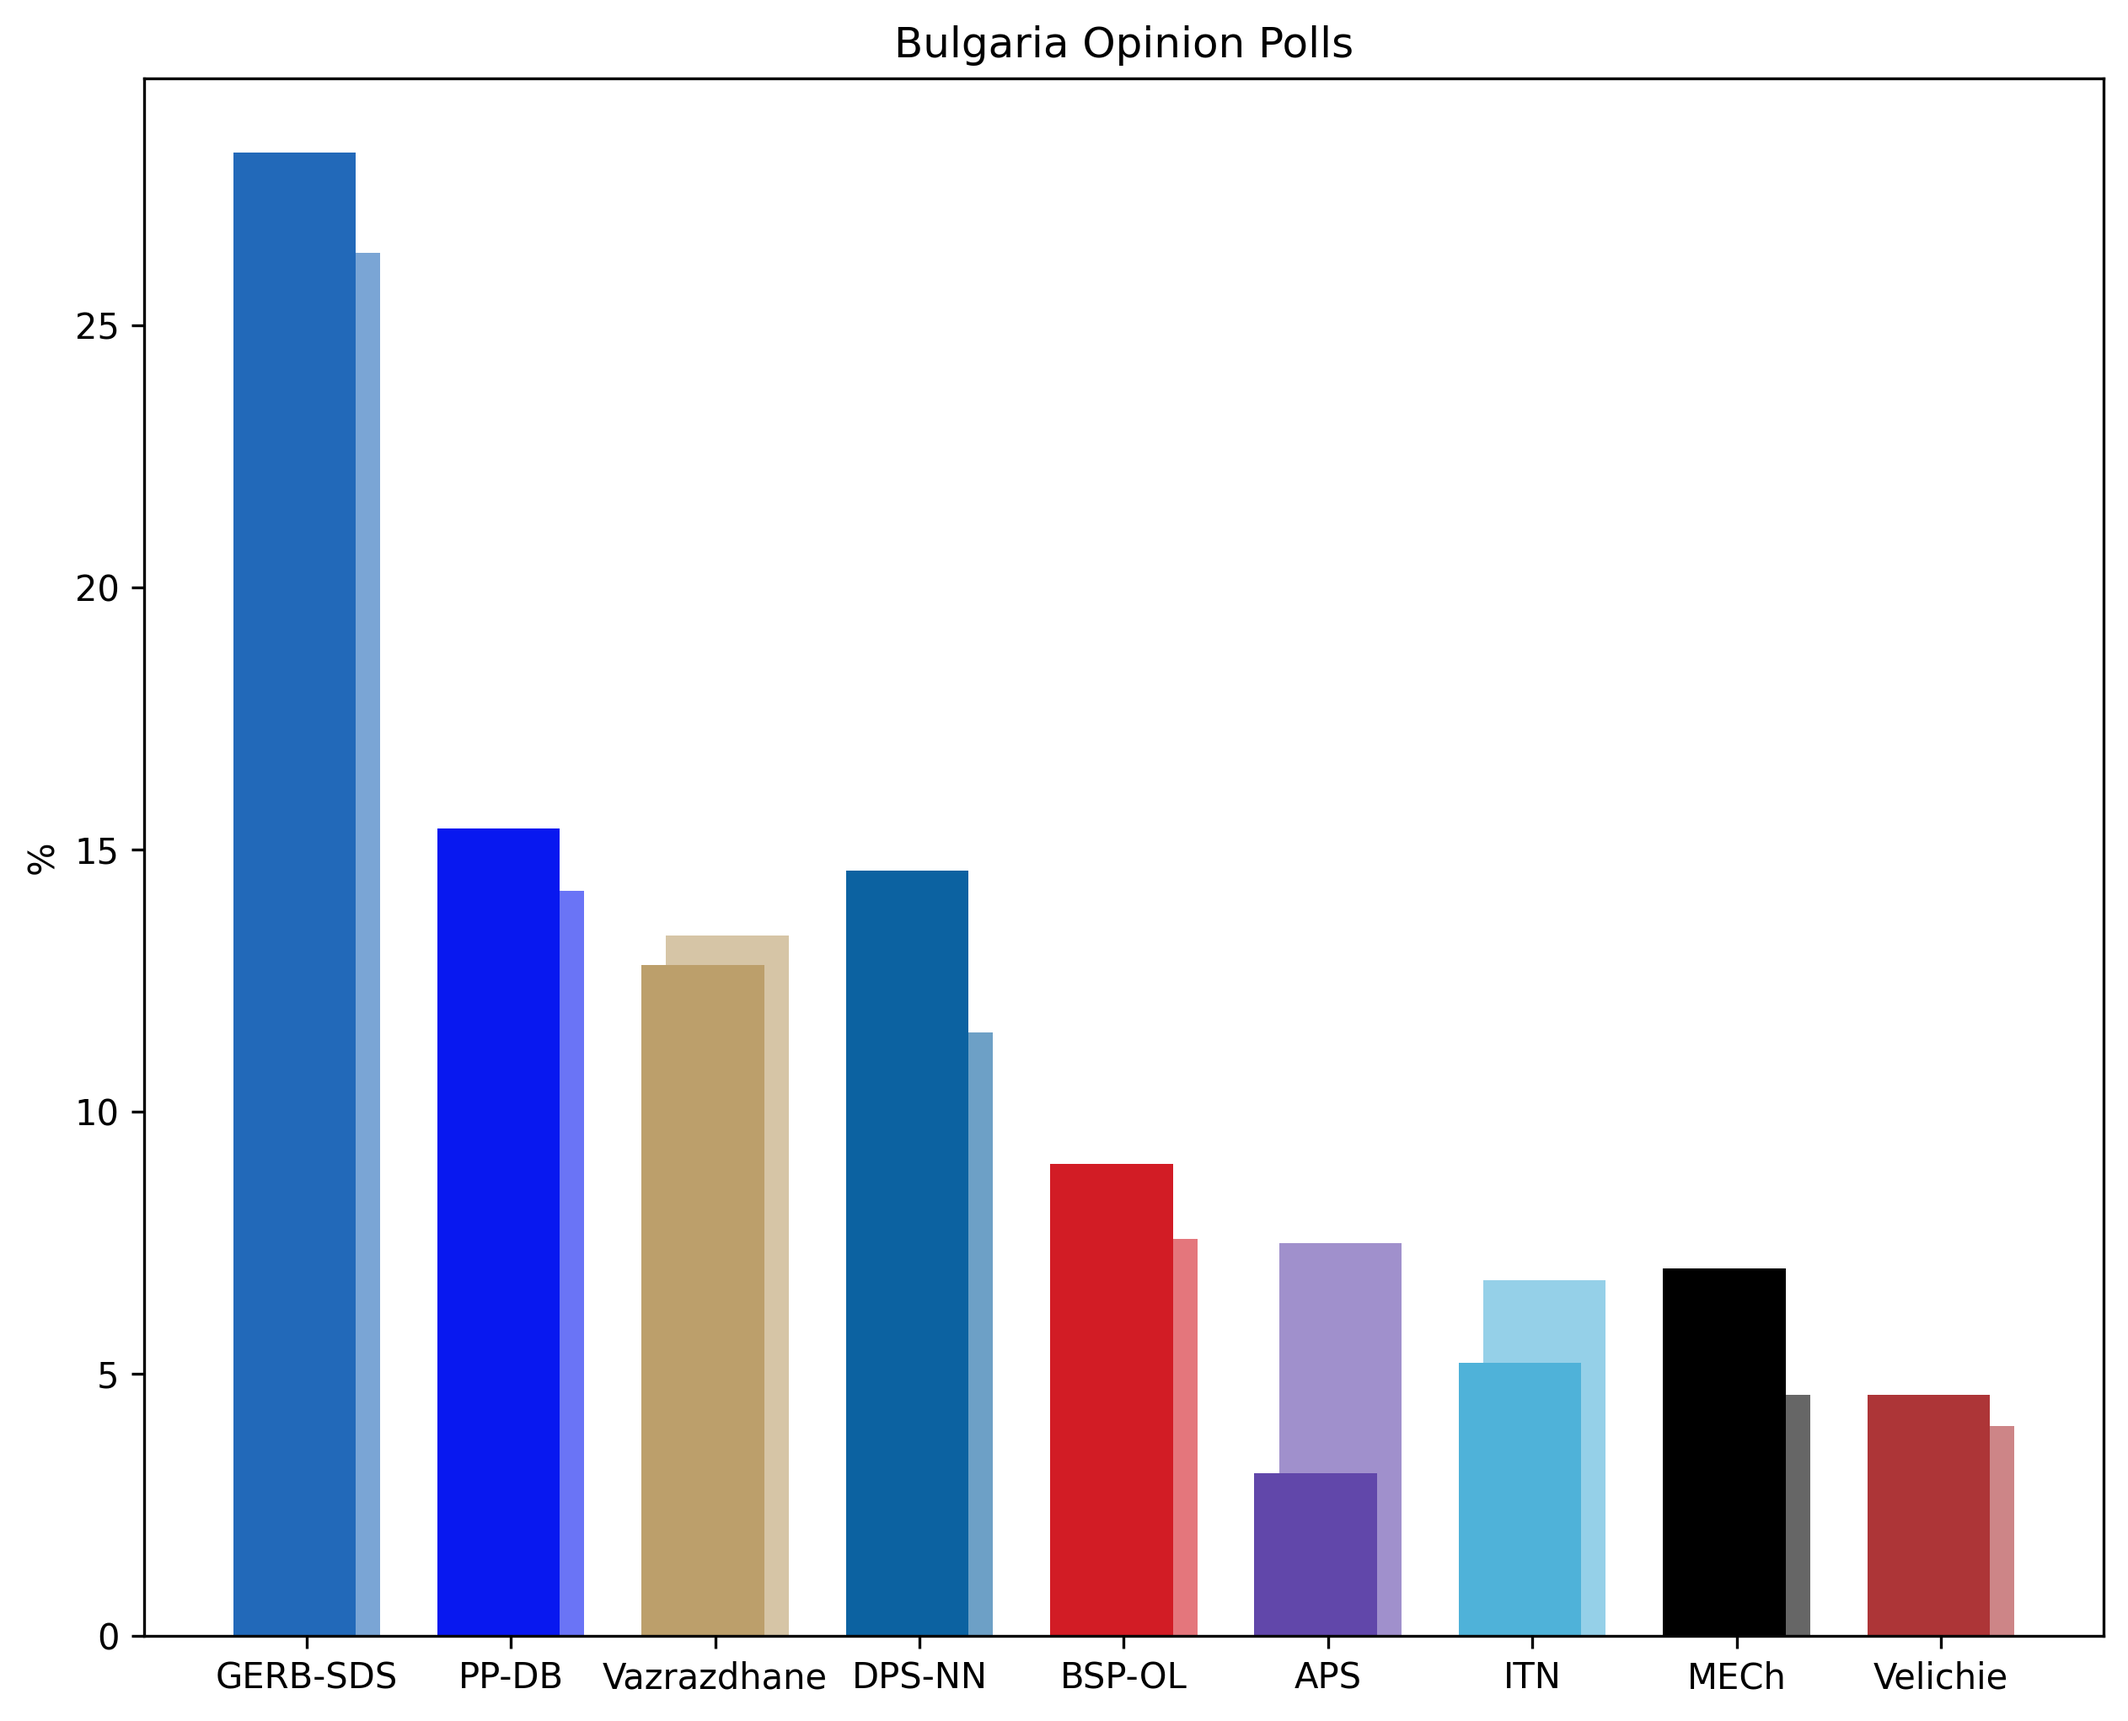
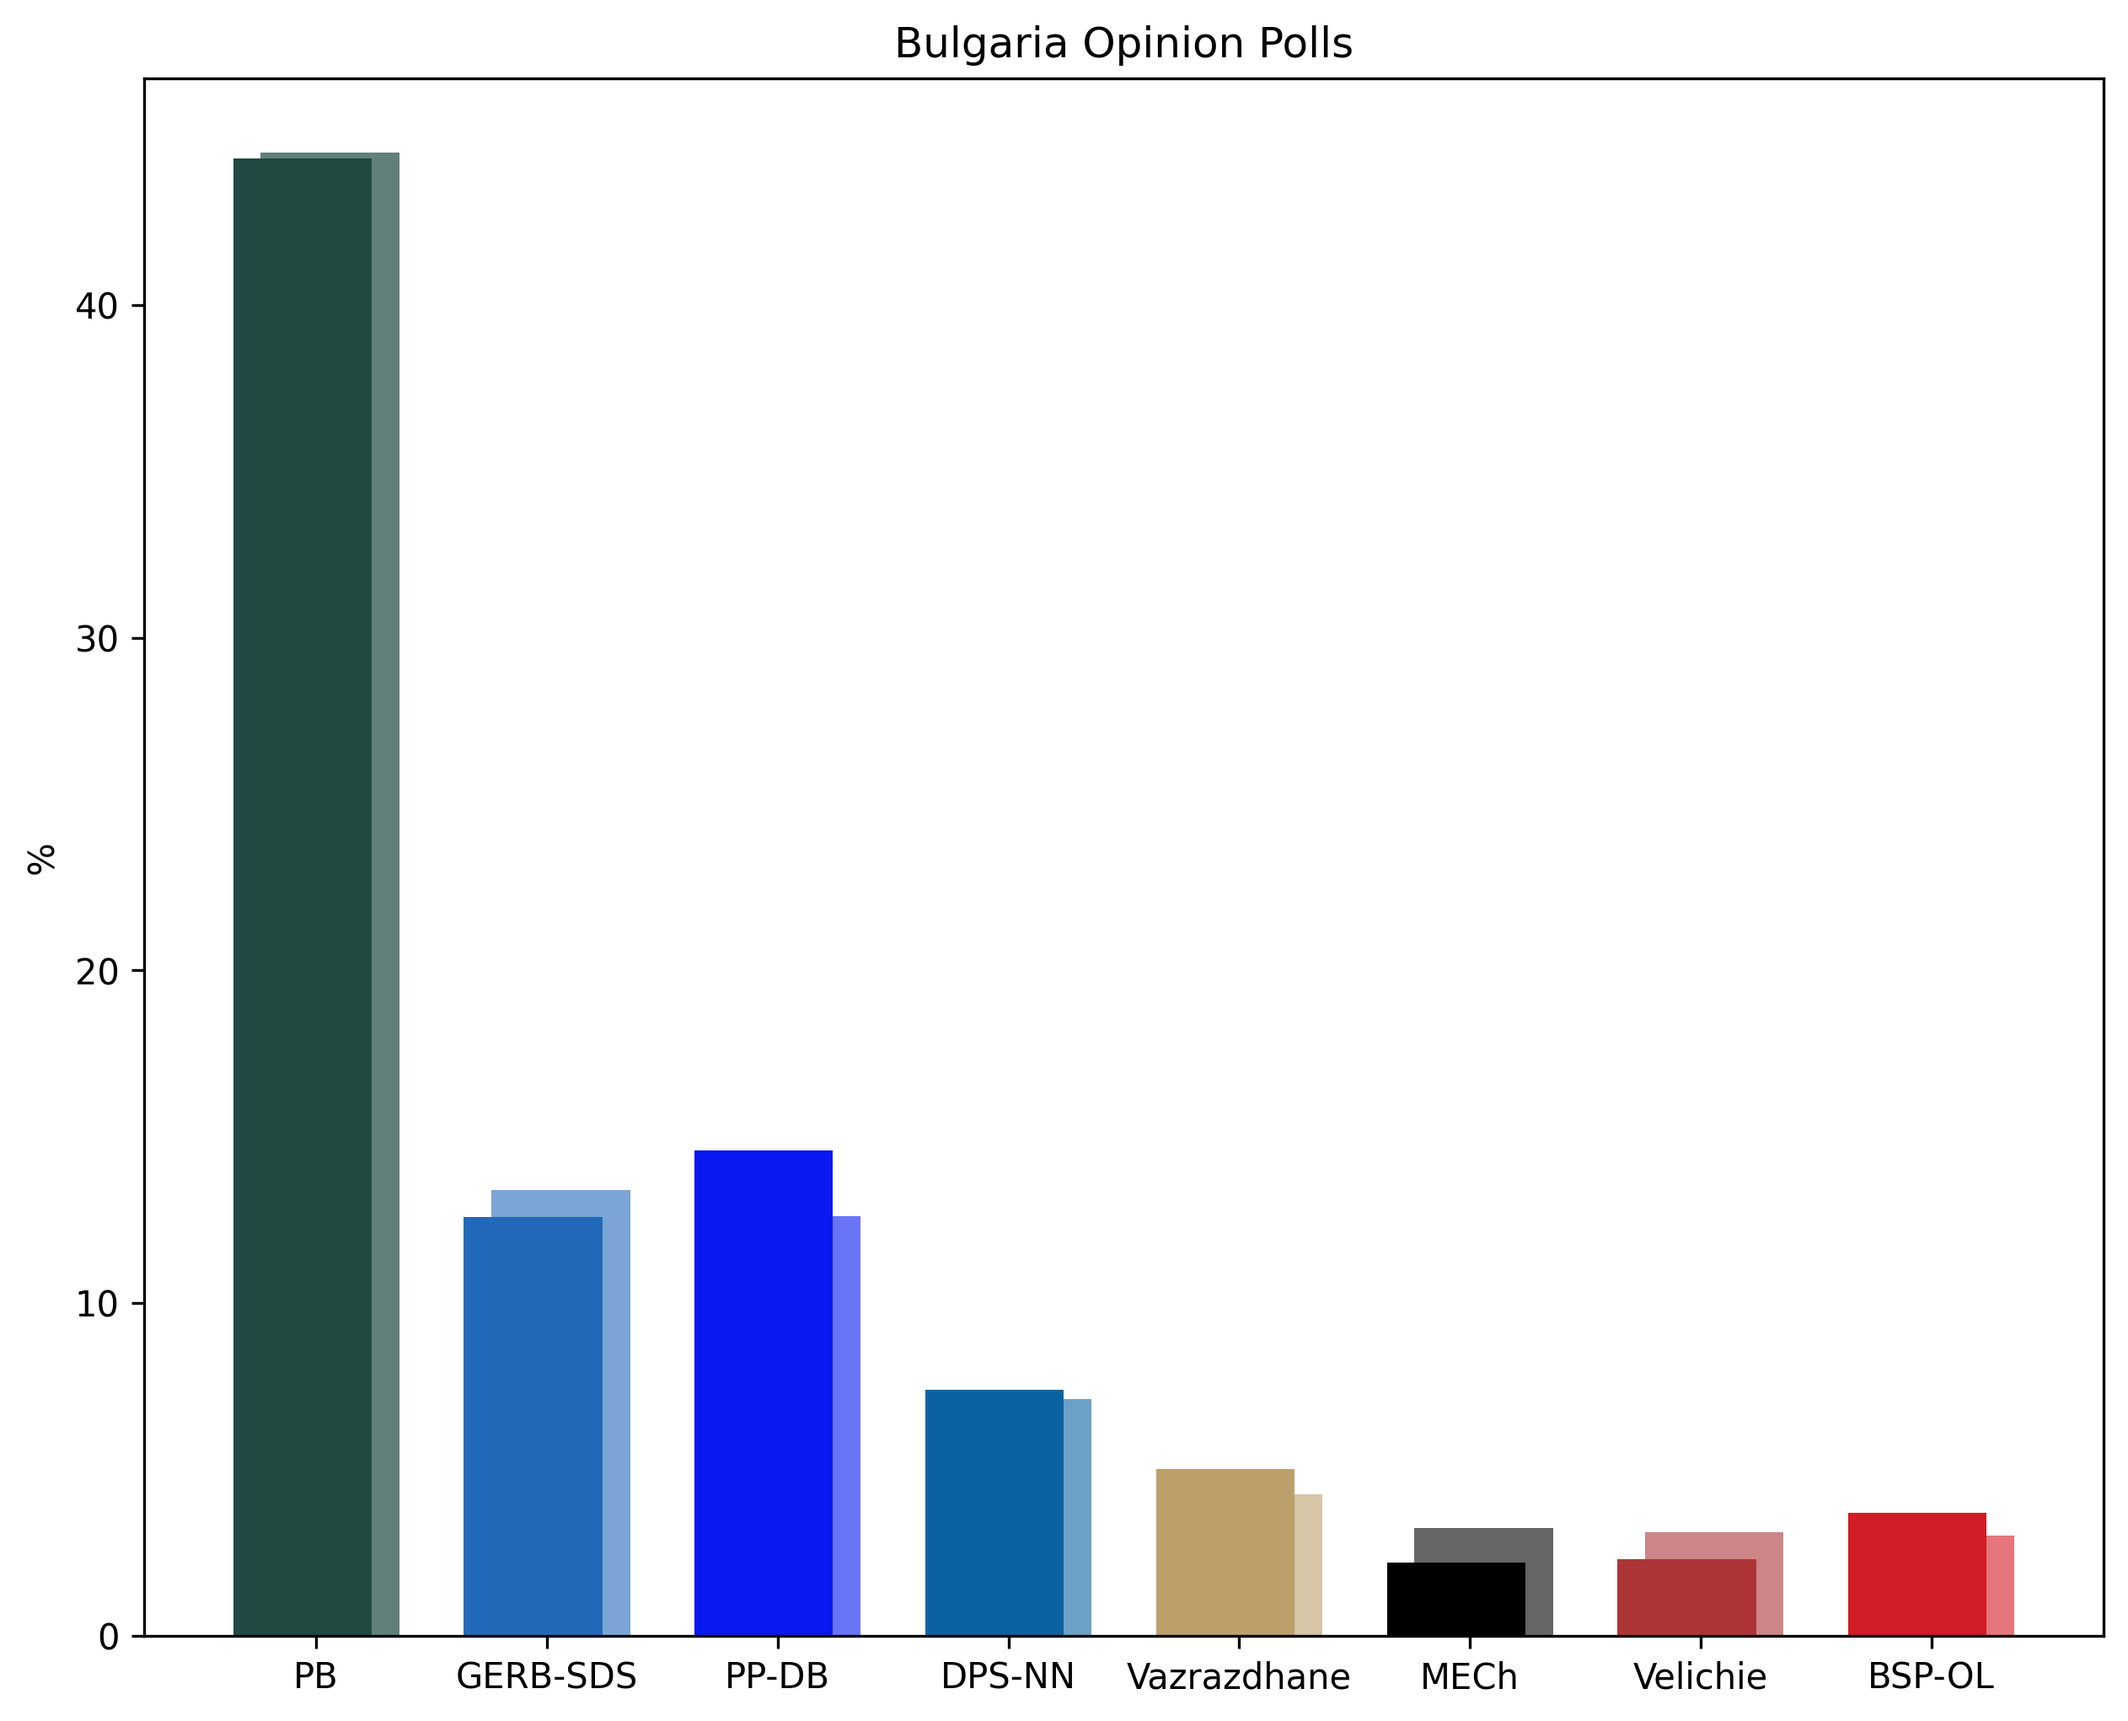
Updated Bulgaria

diff --git a/Europe/SouthEurope/Bulgaria.py b/Europe/SouthEurope/Bulgaria.py
@@ -1,19 +1,19 @@
 import matplotlib.pyplot as plt
 import numpy as np
 
-parties = ['GERB-SDS', 'PP-DB', 'Vazrazdhane', 'DPS-NN', 'BSP-OL', 'APS', 'ITN', 'MECh', 'Velichie']
-polling_2025 = [28.3, 15.4, 12.8, 14.6, 9.0, 3.1, 5.2, 7.0, 4.6]
-election_2024 = [26.39, 14.21, 13.36, 11.51, 7.57, 7.49, 6.78, 4.60, 4.00]
+parties = ['PB', 'GERB-SDS', 'PP-DB', 'DPS-NN', 'Vazrazdhane', 'MECh', 'Velichie', 'BSP-OL']
+polling_2026 = [44.4, 12.6, 14.6, 7.4, 5.0, 2.2, 2.3, 3.7]
+election_2026 = [44.59, 13.39, 12.62, 7.12, 4.26, 3.23, 3.10, 3.02]
 
-poll_colors = ['#2269b9', '#0818f0', '#bc9f6b', '#0c62a1', '#d21c25', '#6147aa', '#4fb2d9', '#000000', '#ad3537']
-election_colors = ['#7aa5d5', '#6a74f6', '#d6c5a6', '#6da0c6', '#e4767c', '#a090cc', '#95d0e8', '#666666', '#cd8587']
+poll_colors = ['#204a41', '#2269b9', '#0818f0', '#0c62a1', '#bc9f6b', '#000000', '#ad3537', '#d21c26']
+election_colors = ['#62807a', '#7aa5d5', '#6a74f6', '#6da0c6', '#d6c5a6', '#666666', '#cd8587', '#e4767c']
 
 x = np.arange(len(parties))
 width = 0.6
 
 fig, ax = plt.subplots(figsize=(10, 8))
-ax.bar(x + width/10, election_2024, width=width, color=election_colors, label='2024 Election')
-ax.bar(x - width/10, polling_2025, width=width, color=poll_colors, label='August 2025 Polling')
+ax.bar(x + width/10, election_2026, width=width, color=election_colors, label='2026 Election')
+ax.bar(x - width/10, polling_2026, width=width, color=poll_colors, label='September 2026 Polling')
 
 ax.set_ylabel('%')
 ax.set_xticks(x)
